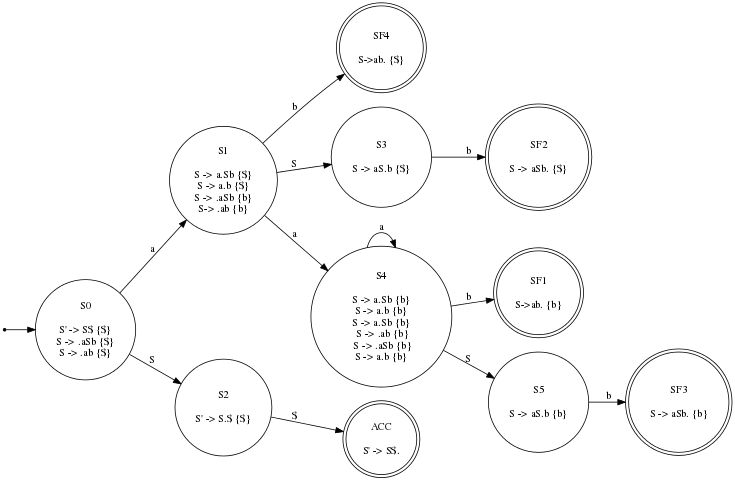
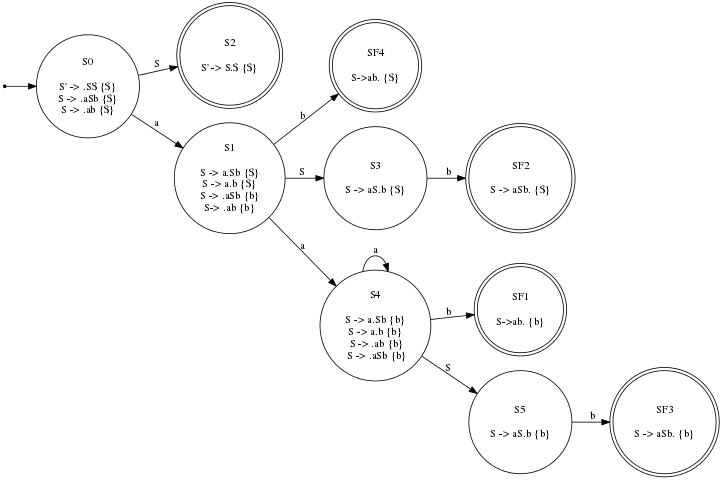
corrección de los ejercicios de clase

diff --git a/Automatas y lenguajes/tex/ejerciciosHoja3/HOJA3.tex b/Automatas y lenguajes/tex/ejerciciosHoja3/HOJA3.tex
@@ -259,7 +259,7 @@ S8 &  &  & dF2 &  &  &  &  &  &  & \\
 SF2 & r4 & r4 & r4 & r4 & r4 & r4 & r4 &  &  & \\
 \hline
 \end{tabular}
-\ppart \textbf{No se trata de una gramática LR(0)} ya que hay ocasiones en las que observamos un conflicto desplazamiento-reducción. 
+\ppart \textbf{No se trata de una gramática LR(0)} ya que hay ocasiones en las que observamos un conflicto desplazamiento-reducción.
 
 Para ver si se trata de una gramática SLR(1) vamos a ver si somos capaces de solucionar los conflictos sabiendo cuales son los elementos siguientes:
 \begin{itemize}
@@ -340,7 +340,7 @@ Calcula los conjuntos primero y siguiente de todos los símbolos no terminales d
 \end{itemize}
 
 \solution
-\ppart
+\spart
 \begin{itemize}
 \item primero(X)=\{e,g\}
 \item primero(Y)=\{g\}
@@ -352,19 +352,21 @@ Calcula los conjuntos primero y siguiente de todos los símbolos no terminales d
 \item siguiente(Z)=\{\$,f\}
 \end{itemize}
 
-\ppart
+\newpage
+
+\spart
 \begin{itemize}
-\item primero(X)=\{c,i,f\}
-\item primero(Y)=\{i,f\}
+\item primero(X)=\{c,λ\}
+\item primero(Y)=\{i,λ\}
 \item primero(Q)=\{f\}
 \end{itemize}
 \begin{itemize}
-\item siguiente(X)=\{\$,i,f\}
-\item siguiente(Y)=\{\$,i,f\}
-\item siguiente(Q)=\{\$,i,f\}
+\item siguiente(X)=\{i\} $\cup$ siguiente(Y) = \{\$, i\}
+\item siguiente(Y)=siguiente(Q) = \{\$, i\} $\cup$ siguiente(Y) = \{\$, i\}
+\item siguiente(Q)=\{\$\} = \{\$\} $\cup$ siguiente(X) $\cup$ siguiente(Y) = \{\$, i\}
 \end{itemize}
 
-\ppart
+\spart
 \begin{itemize}
 \item primero(X)=\{",",.,e\}
 \item primero(A)=\{0,1,",",.,e\}
@@ -484,11 +486,9 @@ SF1 & & & r3 & \\
 \hline
 SF2 & & & & r2\\
 \hline
-SF3 & & & r3 & \\
+SF3 & & & r2 & \\
 \hline
 SF4 & & & & r3 \\
-\hline
-ACC & & & & r1 \\
 \hline
 \end{tabular}
 
@@ -504,11 +504,11 @@ Cadena: a.Sb / Leemos 'S' y pasamos a S3
 Cadena: aS.b / Leemos 'b' y pasamos a SF2
 Cadena: aSb. / Como el siguiente elemento a leer es $, reducimos y volvemos a S0
 Cadena: .S / Leemos S y pasamos a S2
-Cadena: . / Fin de cadena. Pasamos a ACC y aceptamos la entrada
+Cadena: . / Fin de cadena. Llegados a este punto aceptamos la entrada
 \end{verbatim}
 
 \ppart
-Cuando pasemos de LR(1) a LALR(1) vamos a agrupar los nodos S3 y S5 en uno solo así como SF2 y SF3, manteniendo las mismas reglas en cada caso y estableciendo como símbolos de adelanto la unión de los símbolos de adelanto de las reglas de los estados a unir.
+Cuando pasemos de LR(1) a LALR(1) vamos a agrupar los nodos SF4 y SF1 en uno solo así como SF2 y SF3, manteniendo las mismas reglas en cada caso y estableciendo como símbolos de adelanto la unión de los símbolos de adelanto de las reglas de los estados a unir.
 \end{problem}
 
 %%%%%%%%%%%%%%%%%%%%%%%%%%%%%%%%%%%%%%%%%%%%%%%
